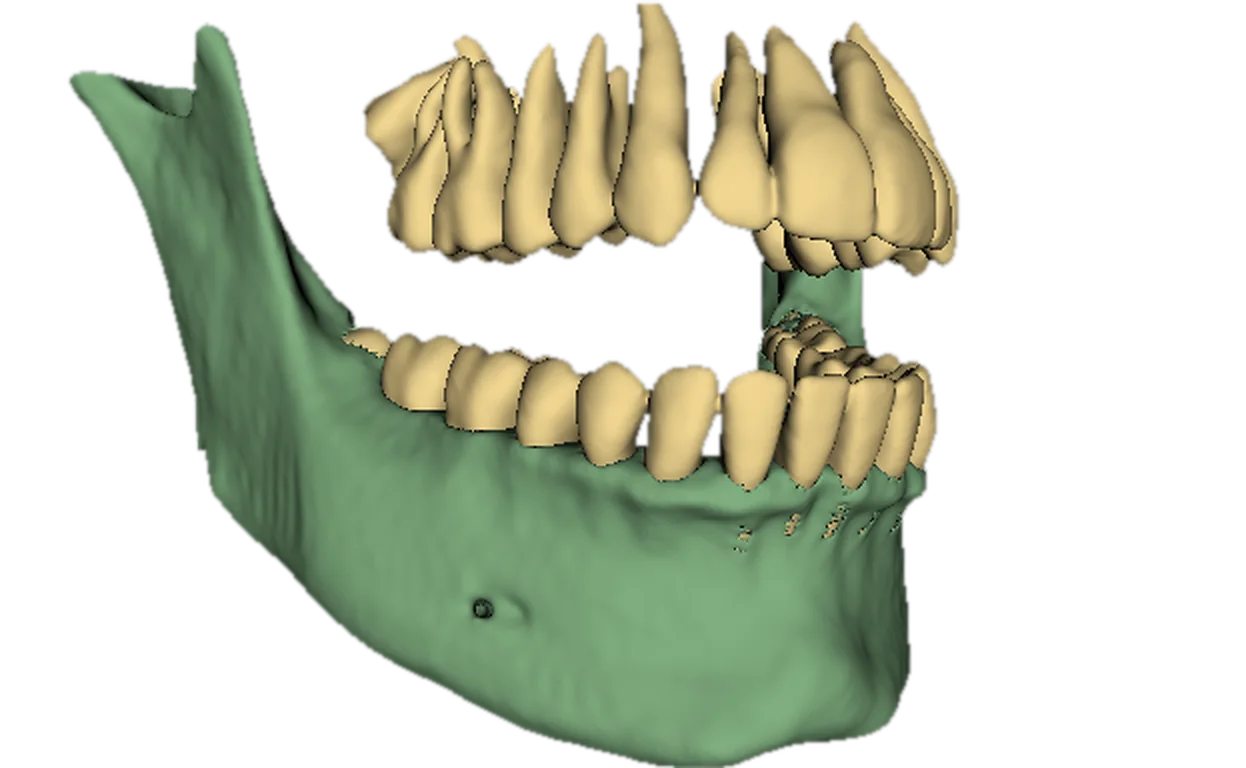
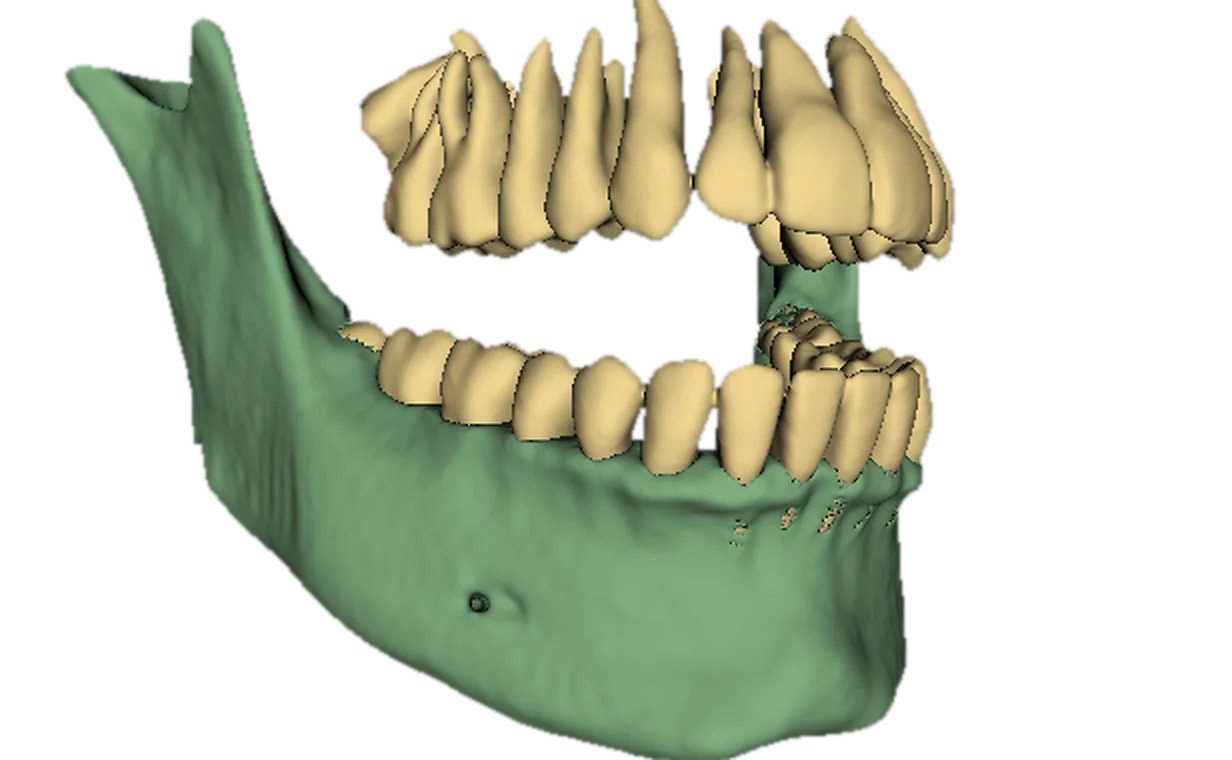
Use pixel-aligned scan pairs in the before/after slider
The tumour example now uses a matching raw render, and both pairs are
shifted so the raw scan and the AI result overlap exactly.

diff --git a/src/components/CompareSlider.tsx b/src/components/CompareSlider.tsx
@@ -9,15 +9,15 @@ const cases: Case[] = [
   {
     id: 'healthy',
     label: 'Jaw & teeth',
-    before: { src: '/img/scan-healthy-raw.webp', w: 1246, h: 768, alt: 'Raw 3D CT rendering of a lower jaw with teeth' },
-    after: { src: '/img/scan-healthy-ai.webp', w: 1246, h: 768, alt: 'The same jaw after segmentation: bone in green, teeth in yellow' },
+    before: { src: '/img/scan-healthy-raw.webp', w: 1232, h: 760, alt: 'Raw 3D CT rendering of a lower jaw with teeth' },
+    after: { src: '/img/scan-healthy-ai.webp', w: 1232, h: 760, alt: 'The same jaw after segmentation: bone in green, teeth in yellow' },
     lesion: false,
   },
   {
     id: 'tumour',
     label: 'Jaw with a tumour',
-    before: { src: '/img/scan-tumour-raw.webp', w: 1170, h: 694, alt: 'Raw 3D CT rendering of a lower jaw affected by a tumour' },
-    after: { src: '/img/scan-tumour-ai.webp', w: 1170, h: 694, alt: 'The same jaw after segmentation, with the tumour highlighted in orange' },
+    before: { src: '/img/scan-tumour-raw.webp', w: 1280, h: 754, alt: 'Raw 3D CT rendering of a lower jaw affected by a tumour' },
+    after: { src: '/img/scan-tumour-ai.webp', w: 1280, h: 754, alt: 'The same jaw after segmentation, with the tumour highlighted in orange' },
     lesion: true,
   },
 ]
